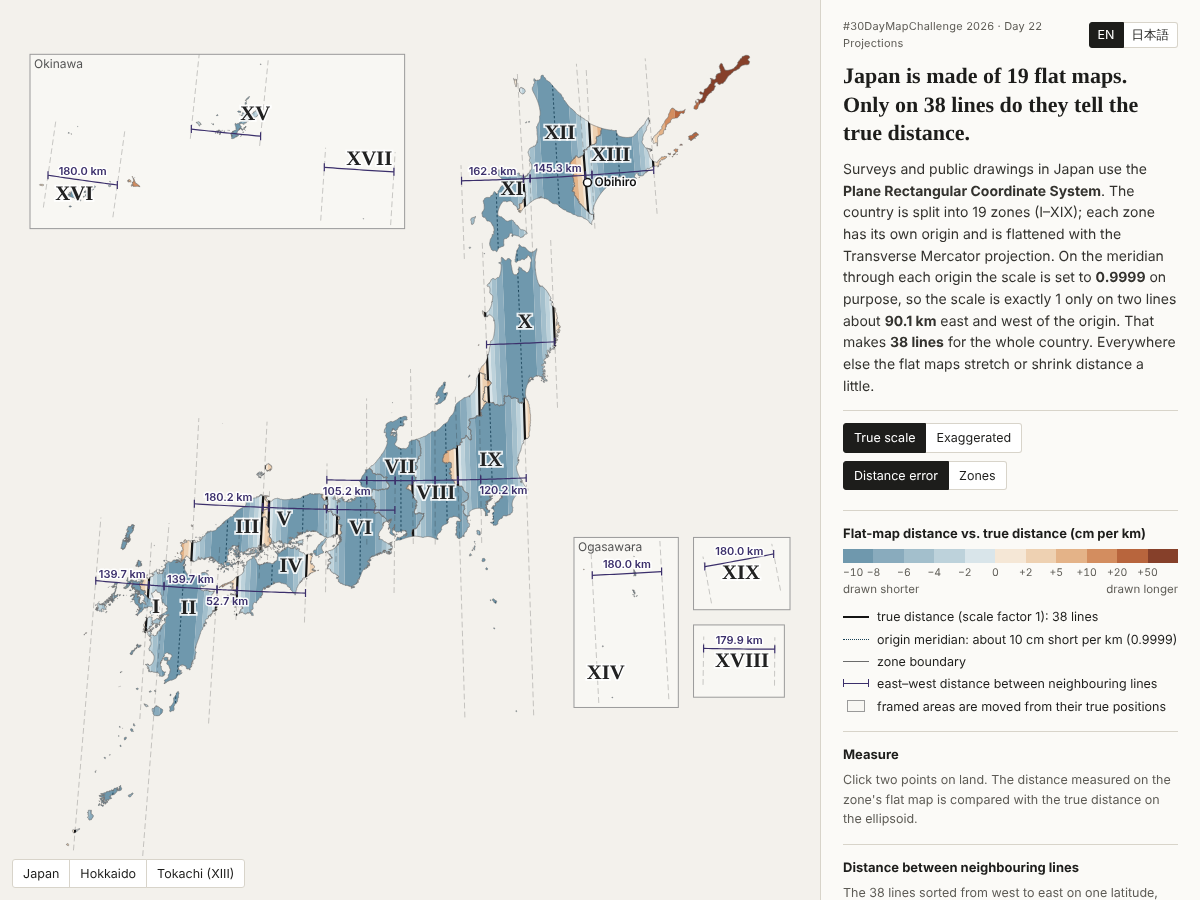
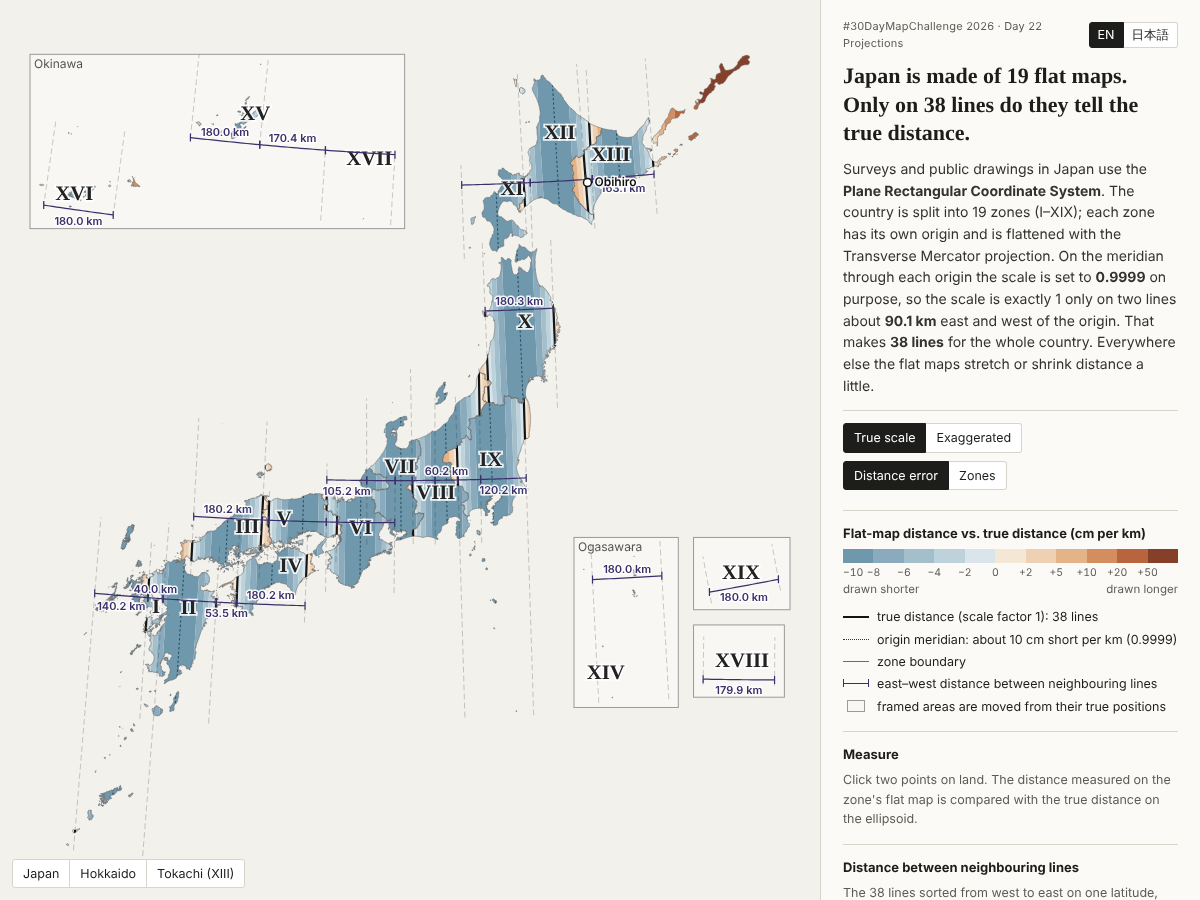
Measure distances between neighbouring lines on whole-degree latitudes

diff --git a/web/app.js b/web/app.js
@@ -344,8 +344,12 @@
     }
     ctx.textAlign = "left";
 
-    drawObihiro();
+    if (state.mode !== "exag" && facts) { // keep distance labels off the Obihiro point
+      const [ox, oy] = toScreen(...worldOf(facts.obihiro.lon, facts.obihiro.lat, 13));
+      placed.push([ox - 6, oy - 6, ox + 6, oy + 6]);
+    }
     drawGaps();
+    drawObihiro();
     drawMeasure();
   }
 
@@ -379,10 +383,11 @@
       // labels that don't fit between the ticks go below the line
       const fits = Math.hypot(x1 - x0, y1 - y0) >= tw + 6;
       if (!fits && Math.hypot(x1 - x0, y1 - y0) < 4) continue;
-      const ly = fits ? my - 3 : my + 17;
-      const rect = [mx - tw / 2 - 2, ly - 13, mx + tw / 2 + 2, ly];
-      if (placed.some((q) => rect[0] < q[2] && rect[2] > q[0] && rect[1] < q[3] && rect[3] > q[1])) continue;
-      placed.push(rect);
+      // try above the line (if it fits between the ticks), then below; skip if both collide
+      const hit = (r) => placed.some((q) => r[0] < q[2] && r[2] > q[0] && r[1] < q[3] && r[3] > q[1]);
+      const ly = (fits ? [my - 3, my + 17] : [my + 17, my - 3]).find((y) => !hit([mx - tw / 2 - 2, y - 13, mx + tw / 2 + 2, y]));
+      if (ly === undefined) continue;
+      placed.push([mx - tw / 2 - 2, ly - 13, mx + tw / 2 + 2, ly]);
       ctx.lineWidth = 3; ctx.strokeStyle = "rgba(255,255,255,0.9)"; ctx.strokeText(label, mx, ly);
       ctx.fillStyle = "#3b2f6b"; ctx.fillText(label, mx, ly);
     }
@@ -417,9 +422,13 @@
     ctx.font = "600 12px system-ui, -apple-system, 'Segoe UI', sans-serif";
     ctx.textBaseline = "middle";
     const label = state.lang === "ja" ? "帯広" : "Obihiro";
-    placed.push([sx - 5, sy - 8, sx + 9 + ctx.measureText(label).width, sy + 8]);
-    ctx.lineWidth = 3; ctx.strokeStyle = "rgba(255,255,255,0.9)"; ctx.strokeText(label, sx + 7, sy);
-    ctx.fillStyle = "#111"; ctx.fillText(label, sx + 7, sy);
+    // the label goes right of the point, or below / left when a distance label is there
+    const lw = ctx.measureText(label).width;
+    const spots = [[sx + 7, sy], [sx + 7, sy + 14], [sx - 7 - lw, sy]];
+    const hit = (r) => placed.some((q) => r[0] < q[2] && r[2] > q[0] && r[1] < q[3] && r[3] > q[1]);
+    const [lx, ly] = spots.find(([x, y]) => !hit([x - 2, y - 7, x + lw + 2, y + 7])) || spots[0];
+    ctx.lineWidth = 3; ctx.strokeStyle = "rgba(255,255,255,0.9)"; ctx.strokeText(label, lx, ly);
+    ctx.fillStyle = "#111"; ctx.fillText(label, lx, ly);
   }
 
   function drawMeasure() {

diff --git a/scripts/build_gaps.py b/scripts/build_gaps.py
@@ -18,19 +18,18 @@ from zones import ORIGINS, ROMAN, epsg
 outdir = sys.argv[1]
 geod = Geod(ellps="GRS80")
 
-# (latitude, zones); rows are chosen where the lines of these zones run over or near land
+# (latitude in whole degrees, zones whose lines are compared on it)
 ROWS = [
-    (43.1, [11, 12, 13]),
-    (39.2, [10]),
+    (43.0, [11, 12, 13]),
+    (40.0, [10]),
     (36.0, [6, 7, 8, 9]),
-    (35.3, [3, 5, 6]),
-    (33.3, [1, 2, 4]),
-    (27.1, [14]),
-    (26.2, [15]),
-    (25.6, [17]),
-    (24.7, [16]),
-    (24.6, [19]),
-    (20.7, [18]),
+    (35.0, [3, 5, 6]),
+    (33.0, [1, 2, 4]),
+    (27.0, [14]),
+    (26.0, [15, 17]),
+    (24.0, [16]),
+    (24.0, [19]),  # drawn in a separate frame, so not compared with XVI
+    (20.0, [18]),
 ]
 
 

diff --git a/README.md b/README.md
@@ -58,23 +58,24 @@ URL パラメータ: `lang=ja|en`、`view=japan|hokkaido|tokachi`、`mode=exag`
 2. **区域の形**: mapshaper で系ごとに市町村を結合（dissolve）し、隣り合う区域の境界を共有したまま簡略化（間隔100m）しました。
 3. **縮尺係数と距離のずれ**: 各系（EPSG:6669〜6687、JGD2011 / GRS80楕円体、縮尺係数0.9999）について、pyproj の `Proj.get_factors` で点の縮尺係数 k を求め、縮尺係数が 1、および距離のずれが −8、−6、−4、−2、0、+2、+5、+10、+20、+50 cm/km となる線を二分法で計算しました（`scripts/build_data.py`）。距離のずれは (k − 1) × 100,000 cm/km です。ブラウザでのマウス位置の表示には、横メルカトル図法の縮尺係数の級数式を使い、pyproj の値と 1×10⁻⁸ 以内で一致することを確かめています（`scripts/check.mjs`）。
 4. **距離の計測**: 平らな地図の距離は、proj4js（`etmerc`）で求めた平面直角座標での2点間の直線距離です。本当の距離は、GeographicLib で求めた GRS80楕円体上の測地線の長さです。どちらも pyproj の値と 1 mm 以内で一致することを確かめています。
-5. **隣り合う線の間の距離**: 緯度を決めた行（北緯43.1度：第XI〜XIII系、39.2度：第X系、36.0度：第VI〜IX系、35.3度：第III・V・VI系、33.3度：第I・II・IV系、ほか島の系は各1行）ごとに、その緯度で縮尺係数が1になる経度を pyproj で求め、西から東へ並べて、隣り合う2本の間の GRS80楕円体上の距離を求めました（`scripts/build_gaps.py`）。同じ組み合わせは一度だけ載せています。隣の系の線とは交差しているため、ある系の線が隣の系の2本の線の間に入ります。
+5. **隣り合う線の間の距離**: 1度単位の緯度（北緯43度：第XI〜XIII系、40度：第X系、36度：第VI〜IX系、35度：第III・V・VI系、33度：第I・II・IV系、27度：第XIV系、26度：第XV・XVII系、24度：第XVI系・第XIX系（枠が別のため別々に比較）、20度：第XVIII系）ごとに、その緯度で縮尺係数が1になる経度を pyproj で求め、西から東へ並べて、隣り合う2本の間の GRS80楕円体上の距離を求めました（`scripts/build_gaps.py`）。同じ組み合わせは一度だけ載せています。隣の系の線とは交差しているため、ある系の線が隣の系の2本の線の間に入ります。
 6. **誇張モード**: 各頂点について、その系の平面直角座標と、系の原点を中心とする正距方位図法（原点からの本当の距離と方位を保つ）での座標の差を求めます。この差を表示中の倍率で拡大し、全国の基図（ランベルト正角円錐図法、標準緯線 北緯33度・43度、中央経線 東経137度）の位置に加えています。各系の地図は原点で固定されるため、区域の境目でずれが隙間や重なりとして現れます。
 
 ### 隣り合う線の間の距離（主なもの）
 
 | 緯度 | 隣り合う線 | 距離 |
 |---|---|---|
-| 北緯43.1度 | 第XII系 西 – 第XI系 東 | 17.5 km |
-| 北緯43.1度 | 第XIII系 西 – 第XII系 東 | 17.5 km |
-| 北緯43.1度 | 第XI系 東 – 第XIII系 西 | 145.3 km |
-| 北緯39.2度 | 第X系 西 – 第X系 東 | 180.3 km |
-| 北緯36.0度 | 第VI系 東 – 第VIII系 西 | 45.2 km |
-| 北緯36.0度 | 第VIII系 西 – 第VII系 東 | 60.0 km |
-| 北緯35.3度 | 第III系 東 – 第V系 西 | 16.9 km |
-| 北緯33.3度 | 第II系 西 – 第I系 東 | 40.5 km |
+| 北緯43度 | 第XII系 西 – 第XI系 東 | 17.3 km |
+| 北緯43度 | 第XIII系 西 – 第XII系 東 | 17.3 km |
+| 北緯43度 | 第XI系 東 – 第XIII系 西 | 145.8 km |
+| 北緯40度 | 第X系 西 – 第X系 東 | 180.3 km |
+| 北緯36度 | 第VI系 東 – 第VIII系 西 | 45.2 km |
+| 北緯36度 | 第VIII系 西 – 第VII系 東 | 60.0 km |
+| 北緯35度 | 第III系 東 – 第V系 西 | 17.6 km |
+| 北緯33度 | 第II系 西 – 第I系 東 | 40.0 km |
+| 北緯26度 | 第XV系 東 – 第XVII系 西 | 170.4 km |
 
-全29組は `web/data/gaps.json` と画面の一覧にあります。
+全30組は `web/data/gaps.json` と画面の一覧にあります。
 
 ### 再生成
 
